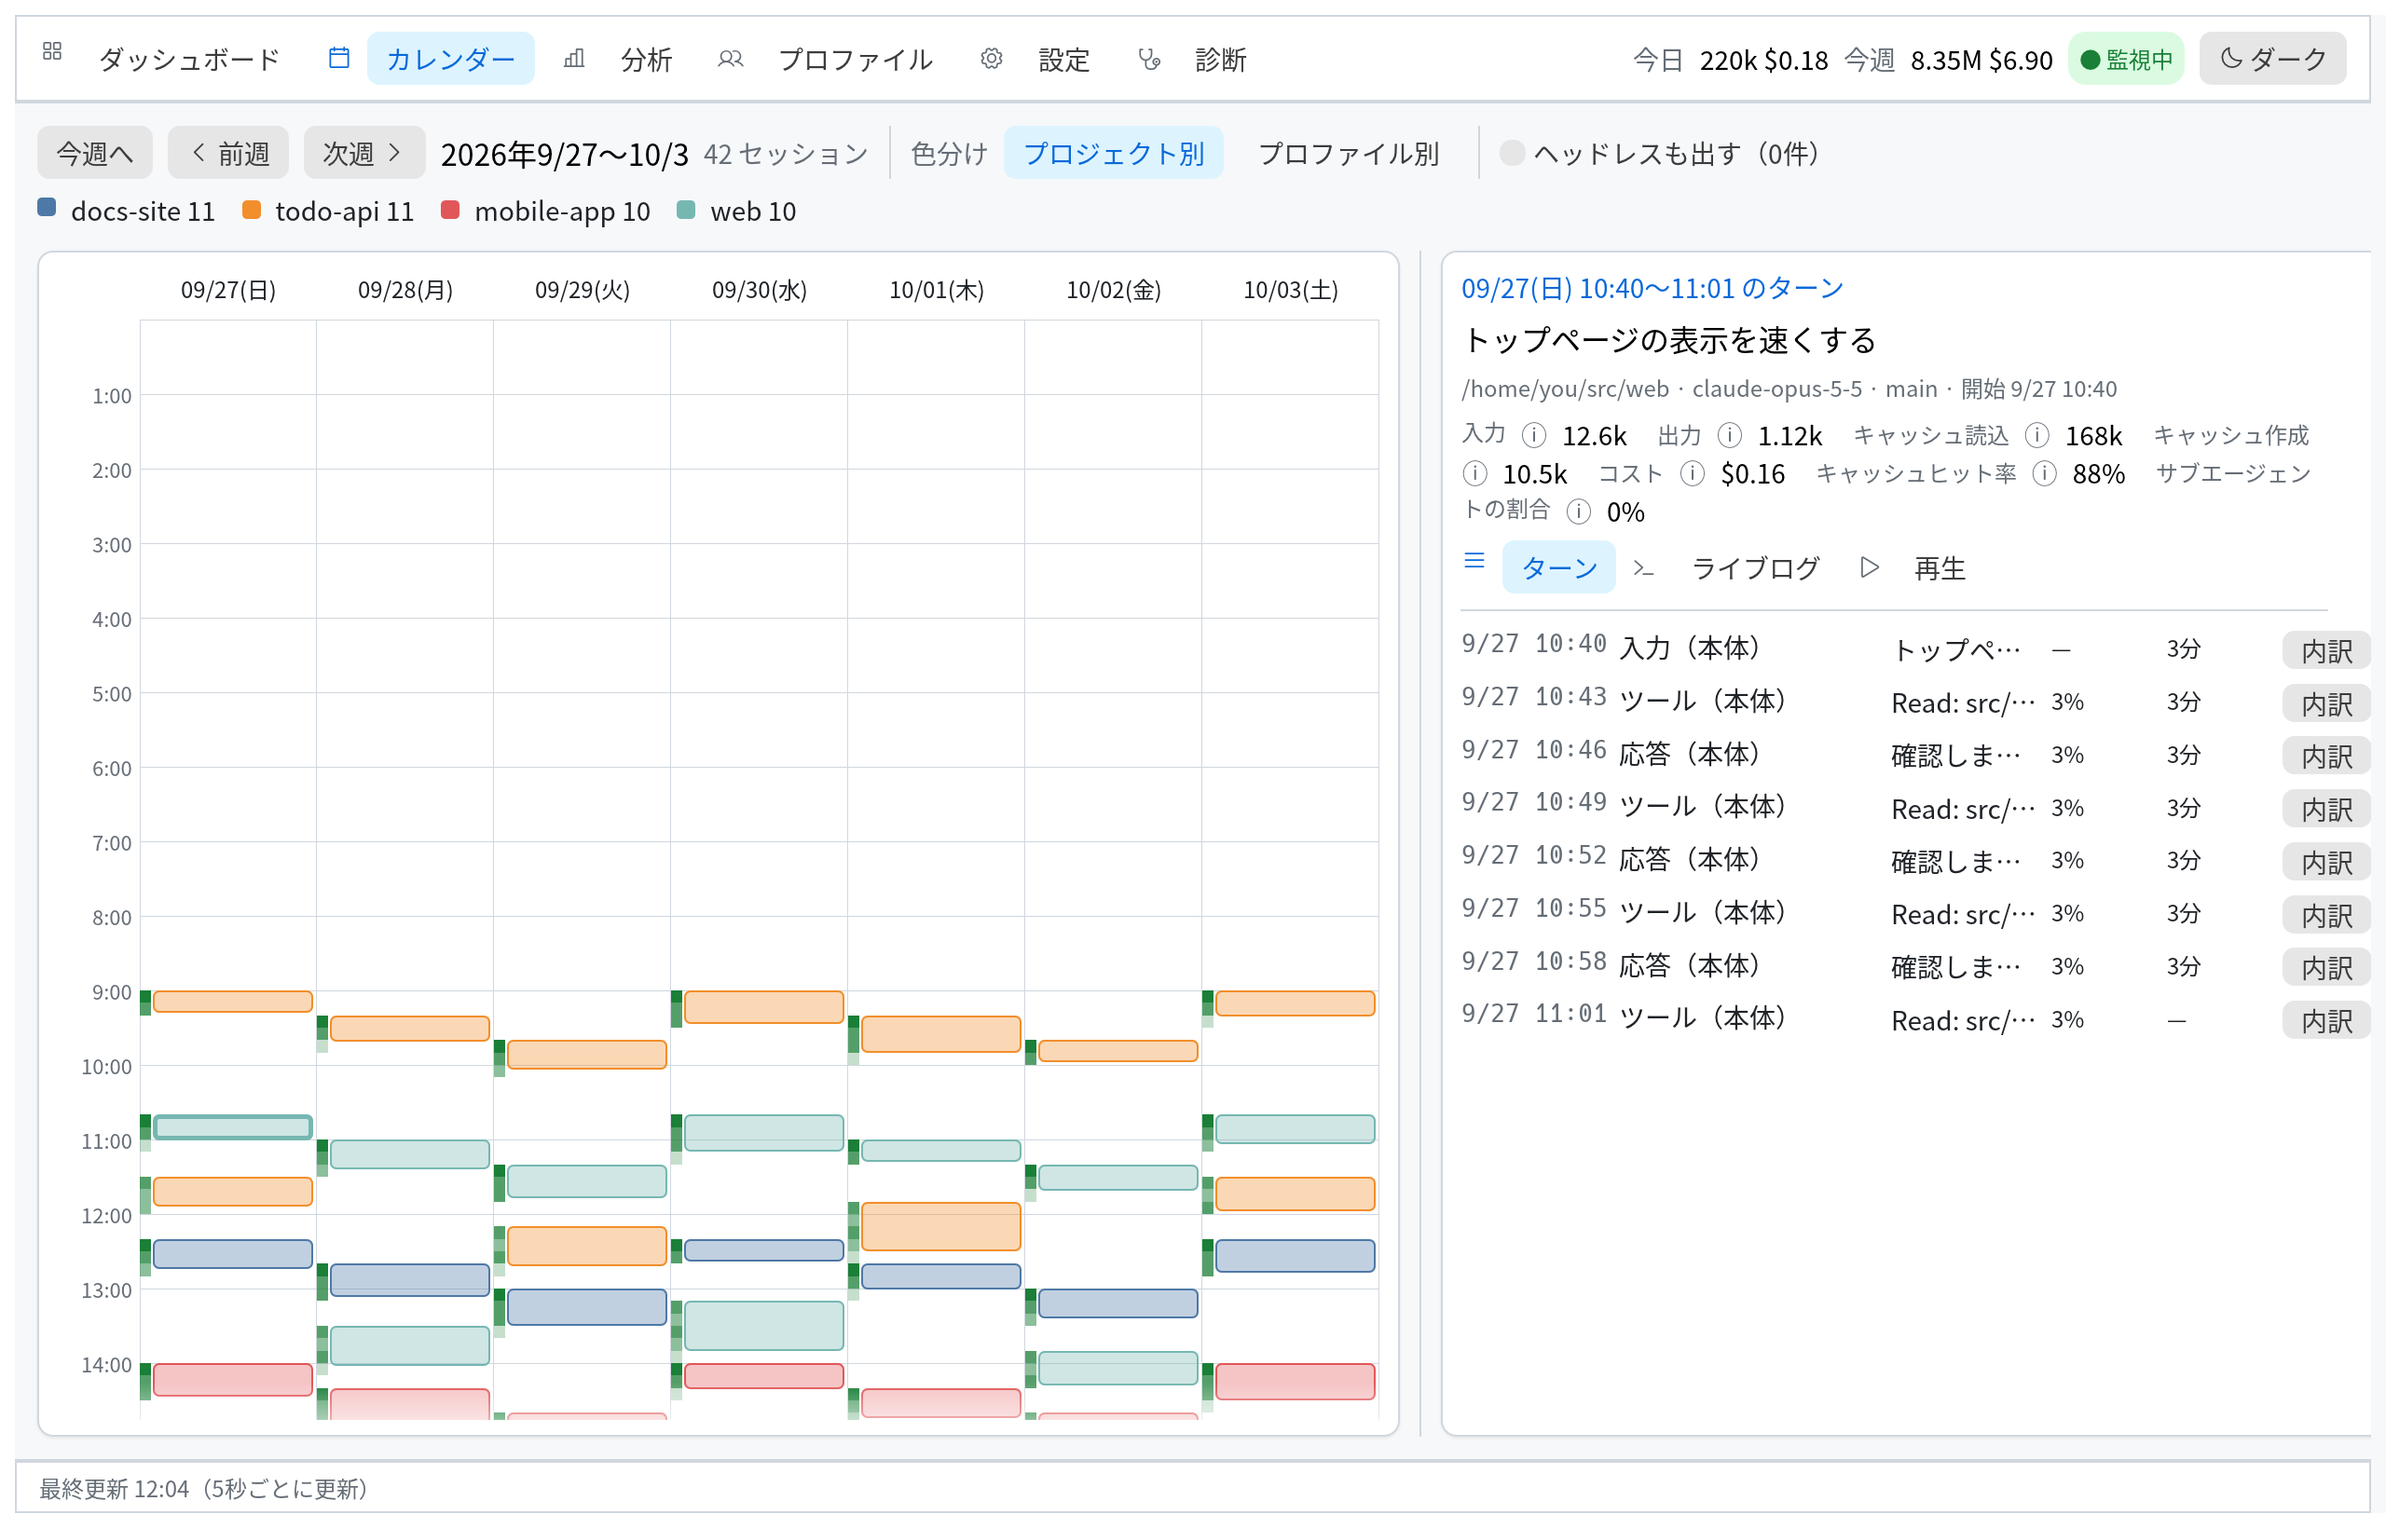
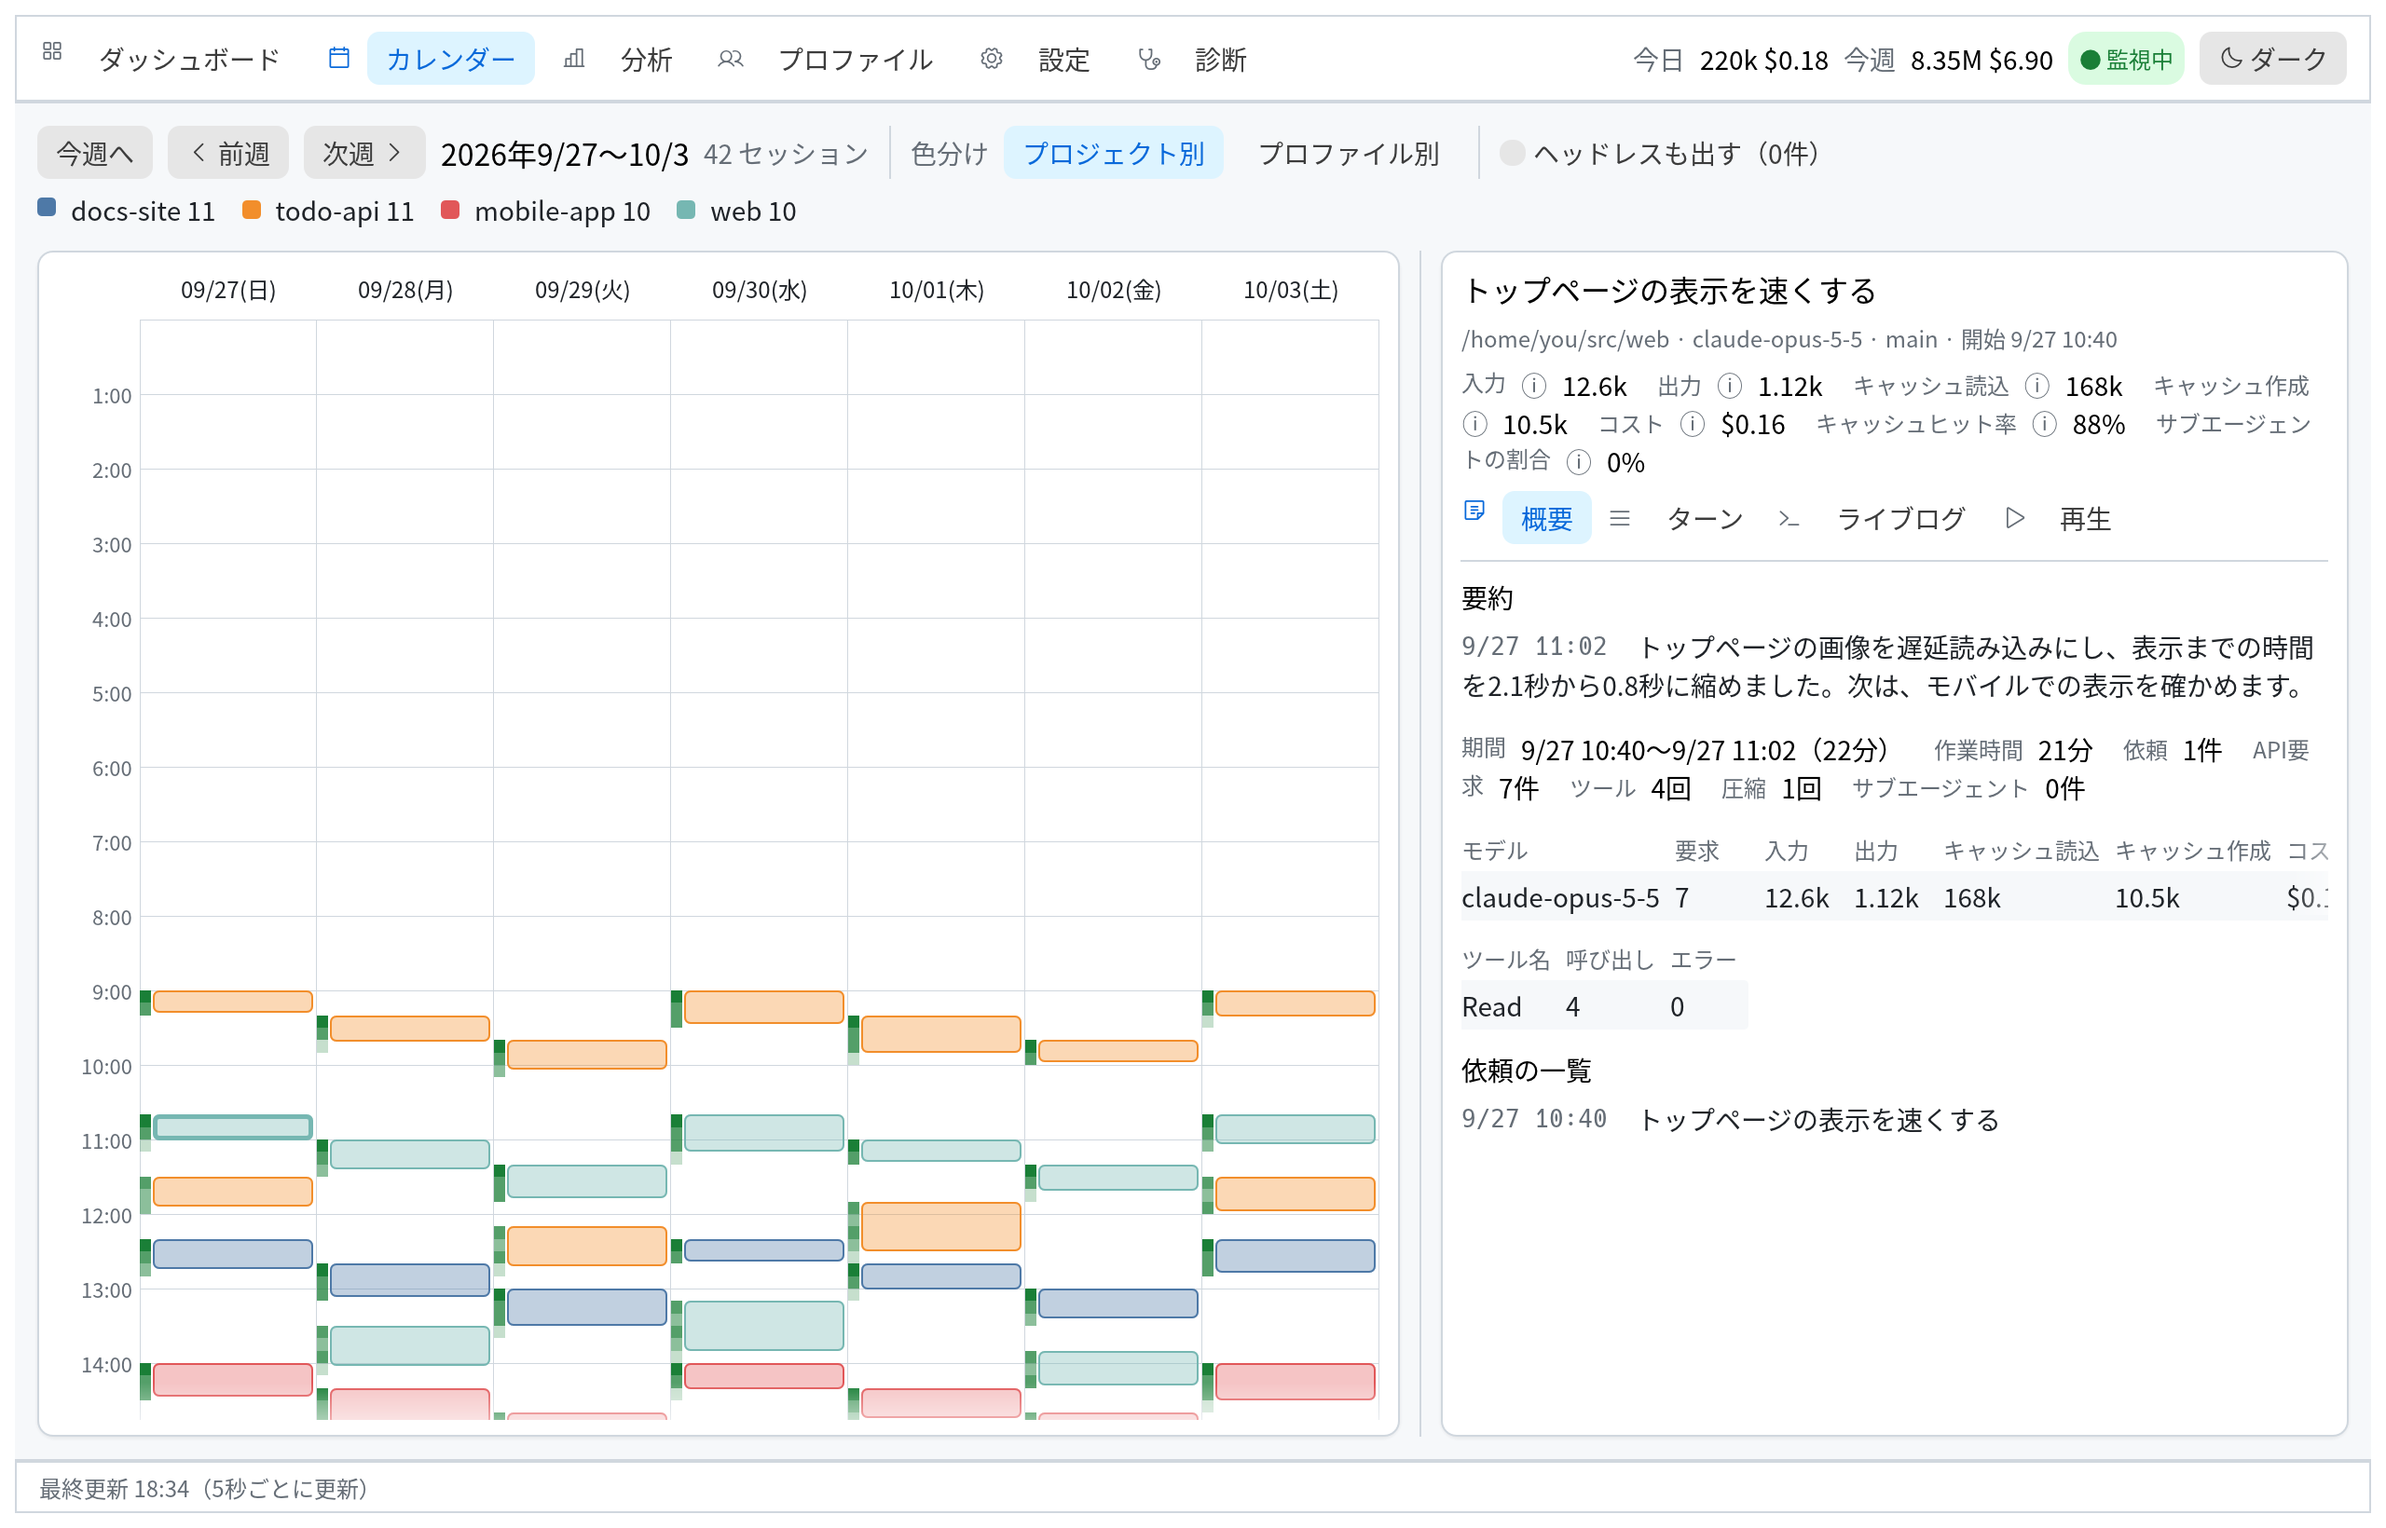
docs: セッションの概要の説明と制限事項を書き、画像を作り直す

Changed region(s): [[0.5938, 0.1866, 1.0, 0.7463], [0.75, 0.7152, 0.8438, 0.7463], [0.7188, 0.3421, 0.75, 0.3732]]

diff --git a/examples/demo_data.rs b/examples/demo_data.rs
@@ -96,7 +96,19 @@ fn week(cfg: &Path, now: DateTime<Utc>) {
             let start = base + Duration::minutes(100 * i as i64 + 20 * (back % 3));
             let sid = format!("w{back}-{i}");
             let turns = 6 + (back as usize + i) % 5;
-            let lines = session(&sid, proj, "cli", prompt, start, turns, 3);
+            let mut lines = session(&sid, proj, "cli", prompt, start, turns, 3);
+            if *proj == "web" {
+                // 帯を押した画像に概要の要約が写るよう、Claude Codeが書く要約と圧縮の行を足す。
+                let end = start + Duration::minutes(3 * turns as i64);
+                lines.push(note(
+                    &sid,
+                    proj,
+                    end,
+                    "compact_boundary",
+                    "Conversation compacted",
+                ));
+                lines.push(note(&sid, proj, end + Duration::minutes(1), "away_summary", "トップページの画像を遅延読み込みにし、表示までの時間を2.1秒から0.8秒に縮めました。次は、モバイルでの表示を確かめます。"));
+            }
             write(
                 &cfg.join(format!("projects/-home-you-src-{proj}/{sid}.jsonl")),
                 &lines,
@@ -262,6 +274,13 @@ fn session(
         });
     }
     lines
+}
+
+fn note(sid: &str, proj: &str, at: DateTime<Utc>, subtype: &str, content: &str) -> String {
+    format!(
+        r#"{{"type":"system","subtype":"{subtype}","content":"{content}","uuid":"{sid}-{subtype}","sessionId":"{sid}","cwd":"/home/you/src/{proj}","timestamp":"{t}"}}"#,
+        t = ts(at)
+    )
 }
 
 fn user(sid: &str, proj: &str, entry: &str, at: DateTime<Utc>, prompt: &str) -> String {
